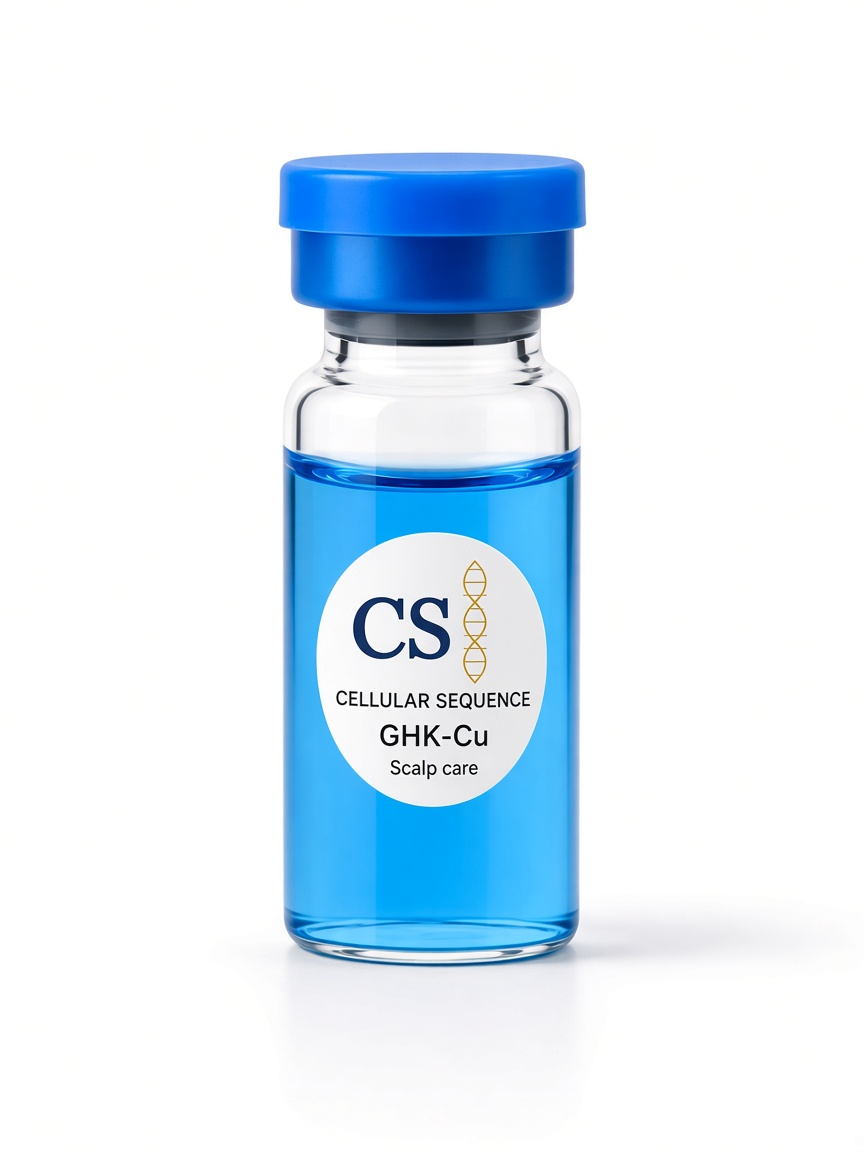
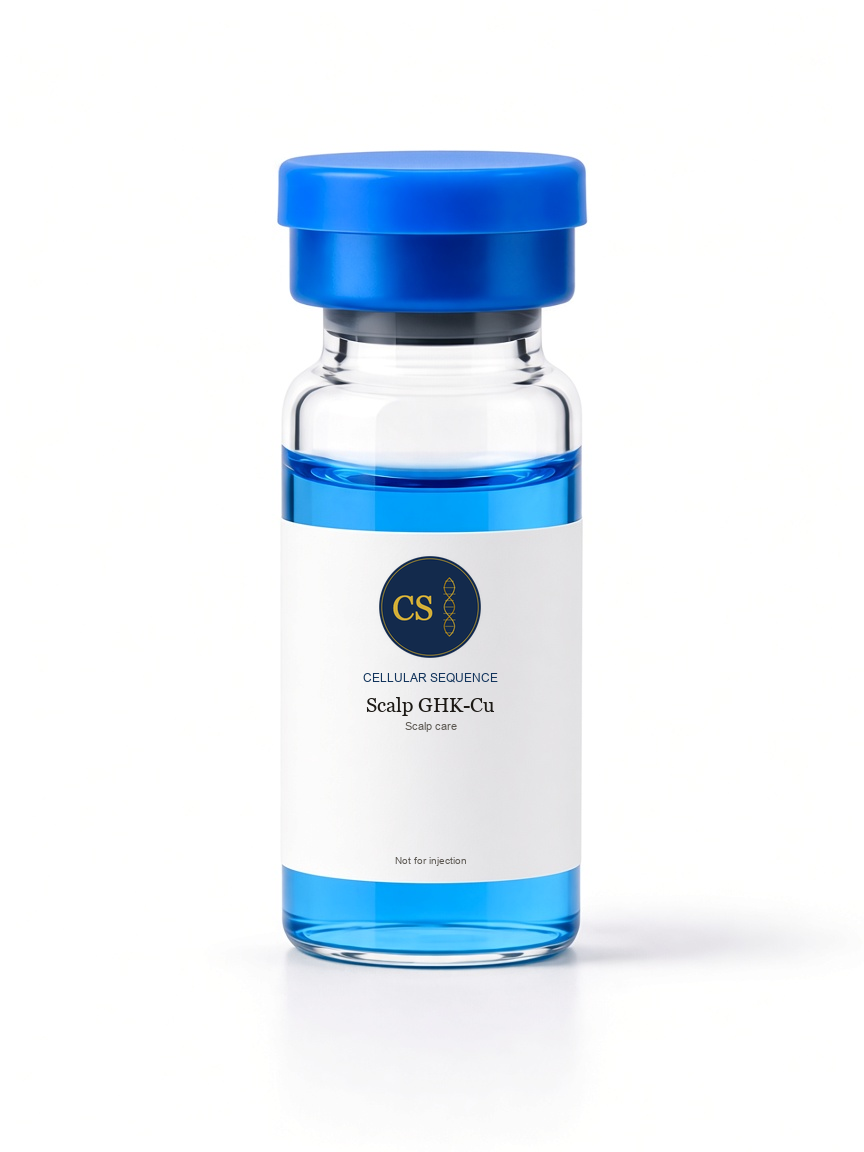
Put the same official CS mark on every serum vial.

diff --git a/src/components/ProductPhoto.tsx b/src/components/ProductPhoto.tsx
@@ -36,6 +36,8 @@ export function ProductPhoto({
 }) {
   const isVial = src.includes("product-vial");
   const overlayLabel = Boolean(labelName) && isVial;
+  const hasPrintedLogo =
+    /product-(ghk-cu|matrikine|snap-8|pdrn-|multi-peptide|nad-egf)/.test(src);
   return (
     <div className={`relative overflow-hidden ${isVial ? "bg-black" : "bg-[#f3eee4]"} ${className}`}>
       <Image
@@ -54,7 +56,7 @@ export function ProductPhoto({
           footer={labelFooter}
           size={brandSize}
         />
-      ) : (
+      ) : hasPrintedLogo ? null : (
         <ProductBrandChip />
       )}
     </div>
